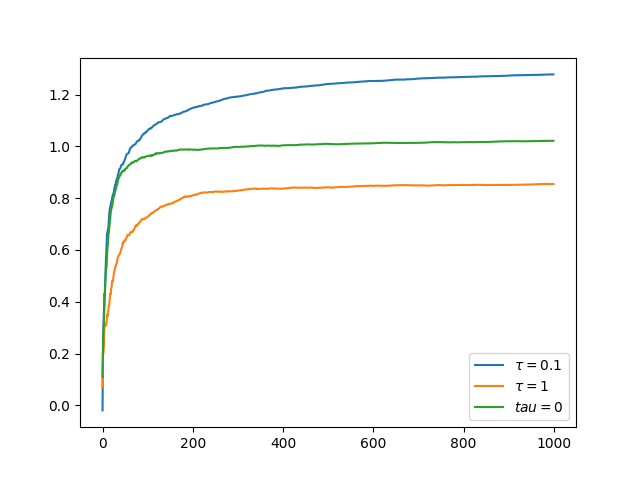
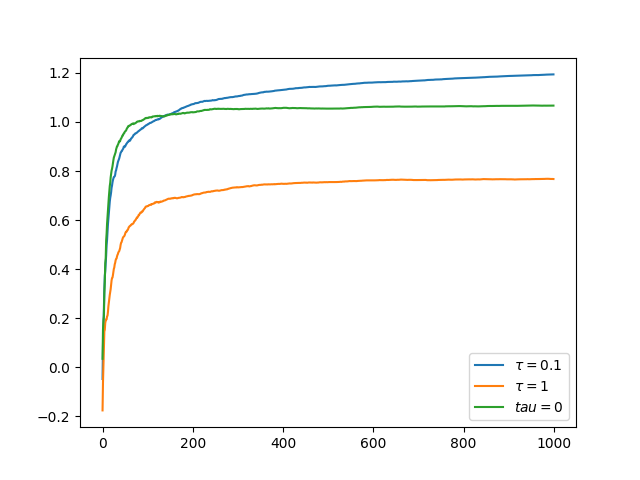
finish incremental update

diff --git a/chap2-Bandit-Problem/n_bandit.py b/chap2-Bandit-Problem/n_bandit.py
@@ -31,9 +31,34 @@ class ValueRecords:
         return len(self.value_records)
 
 
-def estimate(records_values):
-    return [np.mean(records_values[i]) if len(records_values[i]) > 0 else 0
-            for i in range(len(records_values))]
+class IncrementRecord:
+    def __init__(self):
+        self.last_time_estimated = 0
+        self.last_time_reward = 0
+        self.chosen_time = 0
+
+    def update_estimate(self, new_estimate):
+        self.last_time_estimated = new_estimate
+
+    def update_reward(self, reward):
+        self.last_time_reward = reward
+        self.chosen_time += 1
+
+
+def estimate(increment_records):
+    new_estimates = []
+    for record in increment_records:
+        k = record.chosen_time
+        q_k = record.last_time_estimated
+        r_k = record.last_time_reward
+        new_estimate = 0
+        if k > 0:
+            new_estimate = q_k + 1 / k * (r_k - q_k)
+            record.update_estimate(new_estimate)
+
+        new_estimates.append(new_estimate)
+
+    return new_estimates
 
 
 def epsilon_greedy_policy(epsilon):
@@ -65,24 +90,26 @@ def softmax_policy(tau):
 def choose_bandit(step, policy_func, bandit_num=10):
     bandits = [Bandit() for _ in range(bandit_num)]
 
-    value_records = ValueRecords(bandit_num)
+    records = [IncrementRecord() for _ in range(bandit_num)]
     total_rewards = 0
-    average_rewards = []
+    _average_rewards = []
+
     for i in range(step):
-        estimated_values = estimate(value_records)
+        estimated_values = estimate(records)
         chosen_index = policy_func(estimated_values)
 
         bandit = bandits[chosen_index]
         reward = bandit.value
 
+        records[chosen_index].update_reward(reward)
+
         total_rewards += reward
 
-        value_records[chosen_index].append(reward)
-        average_rewards.append(total_rewards/(i+1))
+        _average_rewards.append(total_rewards/(i+1))
 
         # print('average reward is {}'.format(total_rewards/(i+1)))
 
-    return average_rewards
+    return _average_rewards
 
 
 def average_loops_choose_bandit(policy_func, step=1000, loop_time=2000):
@@ -104,16 +131,30 @@ def asserts():
     value_records[0].append(0.1)
     assert value_records[0] == [0.1], value_records[0]
 
-    estimated_values = estimate(value_records)
-    assert len(estimated_values) == 10
-    assert estimated_values[0] == 0.1
-    assert estimated_values[1] == 0
-    greedy = epsilon_greedy_policy(epsilon=0.1)
-    assert greedy(estimated_values) == 0
+    increment_records = [IncrementRecord() for _ in range(10)]
 
-    value_records[1].append(0.2)
-    estimated_values = estimate(value_records)
-    assert epsilon_greedy_policy(0)(estimated_values) == 1
+    estimated_values = estimate(increment_records)
+    assert len(estimated_values) == 10
+
+    assert estimated_values[0] == 0
+
+    increment_records[1].update_reward(0.1)
+    estimated_values = estimate(increment_records)
+    assert estimated_values[1] == 0.1
+    assert estimated_values[0] == 0
+
+    greedy = epsilon_greedy_policy(epsilon=0.1)
+
+    target_num = 0
+    for i in range(100):
+        chosen_index = greedy(estimated_values)
+        if chosen_index == 1: target_num += 1
+
+    assert abs(target_num - 100 * (1 - 0.1)) <= 5
+
+    # value_records[1].append(0.2)
+    # estimated_values = estimate(value_records)
+    # assert epsilon_greedy_policy(0)(estimated_values) == 1
 
     print('test done!')
 
